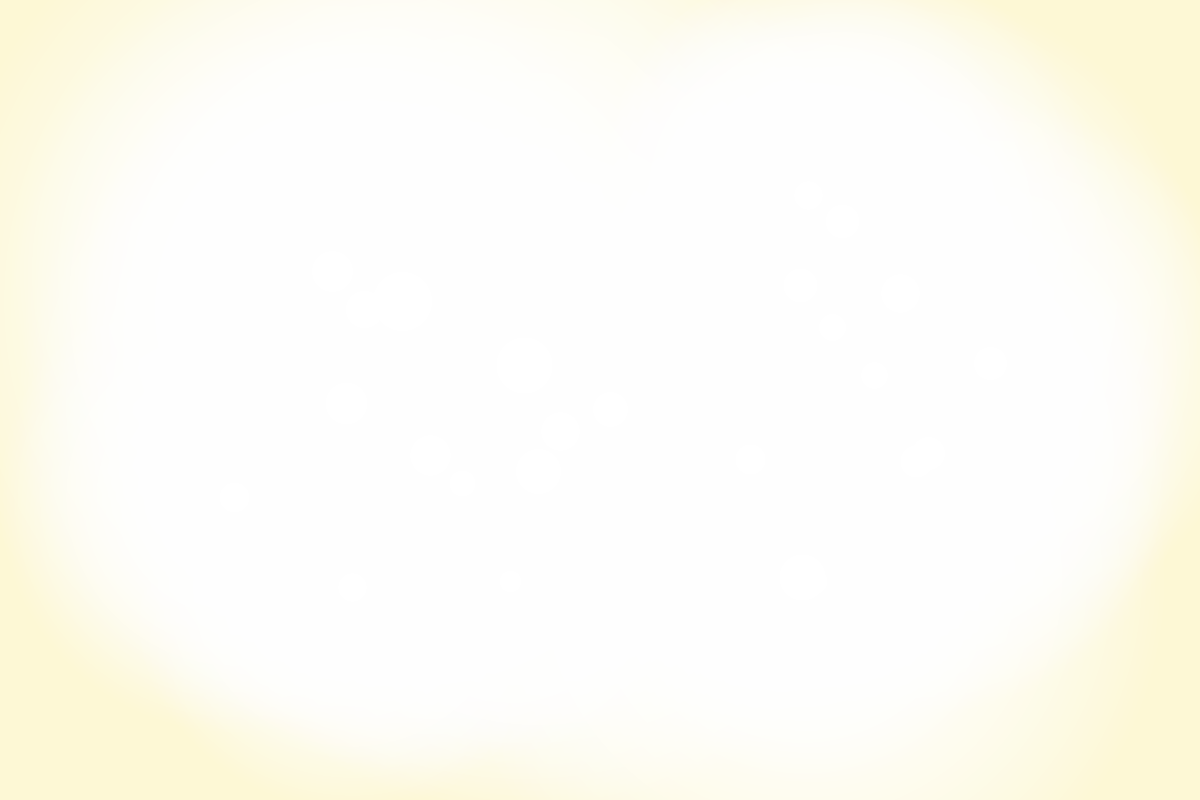
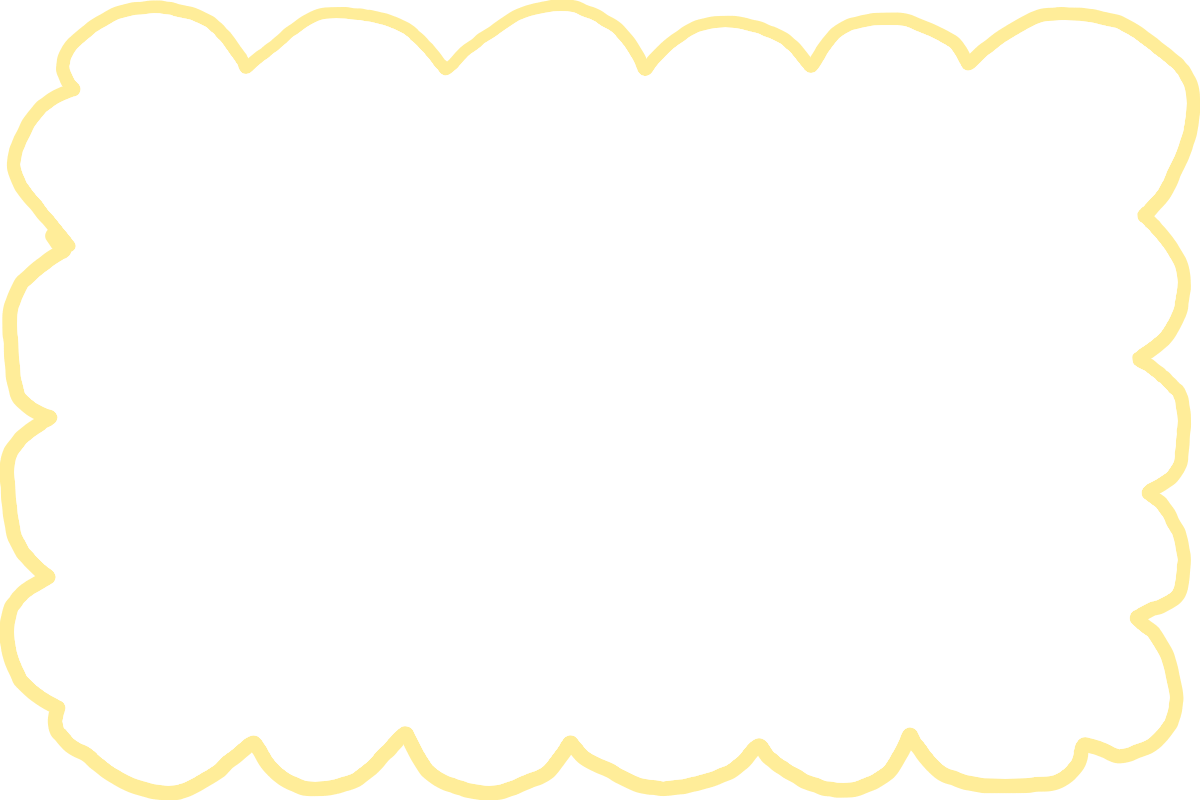
デザインの一新

Changed region(s): [[0.0, 0.0, 0.74, 1.0], [0.7092, 0.0, 1.0, 1.0], [0.2467, 0.0, 0.7092, 0.0938]]

diff --git a/socialrecording/socialrecording/TokoViewController.m b/socialrecording/socialrecording/TokoViewController.m
@@ -40,9 +40,9 @@
     [super viewDidLoad];
     
     //ナビゲーションバー、タブバーの変更
+    //self.navigationController.navigationBar.backgroundColor = [UIColor colorWithRed:1.000 green:0.929 blue:0.600 alpha:1.0];
     self.navigationController.navigationBar.backgroundColor = [UIColor yellowColor];
     self.tabBarController.tabBar.backgroundColor = [UIColor yellowColor];
-    self.table.backgroundColor = [UIColor colorWithPatternImage:[UIImage imageNamed:@"back_color.png"]];
     
     //キーボードを外タップで閉じるために追加
     self.singleTap = [[UITapGestureRecognizer alloc] initWithTarget:self action:@selector(onSingleTap:)];
@@ -135,6 +135,7 @@
     NSLog(@"data retrieval and display done");
 }
 - (void)viewDidAppear:(BOOL)animated{
+    self.table.backgroundColor = [UIColor colorWithPatternImage:[UIImage imageNamed:@"back_color.png"]];
     NSLog(@"table data: %d",[self.table_data count]);
     
     [super viewDidAppear:animated];

diff --git a/socialrecording/socialrecording/TokoShosaiViewController.m b/socialrecording/socialrecording/TokoShosaiViewController.m
@@ -307,7 +307,7 @@
     [button setTitle:[NSString stringWithFormat:@"%@さんの詳細",name] forState:UIControlStateNormal];
     
     label = (UILabel *)[cell viewWithTag:4];
-    [label setText:[NSString stringWithFormat:@"いいね%@件",iine]];
+    [label setText:[NSString stringWithFormat:@"%@",iine]];
     
 }
  
